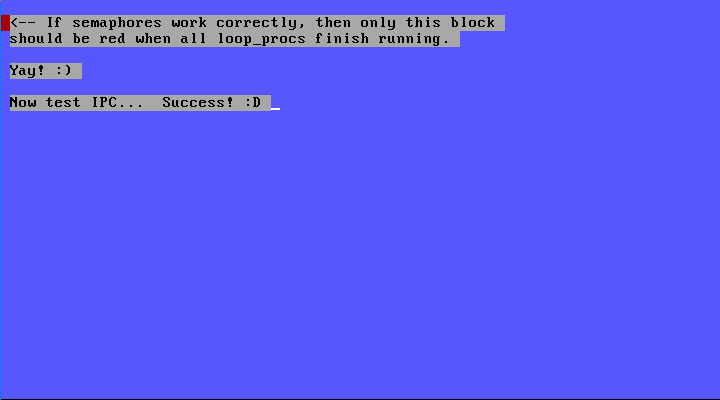
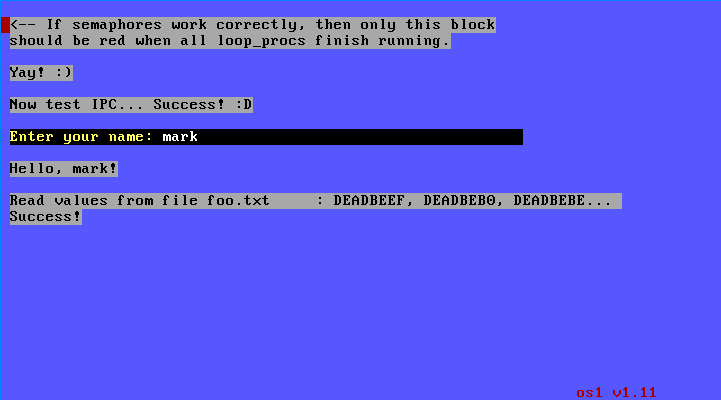
Update index

diff --git a/os1/index.html b/os1/index.html
@@ -37,15 +37,17 @@
     </p>
 
     <br />
-    <h2>Disk image available</h2>
+    <h2>Disk images available</h2>
 
     <p>
-    A disk image is available for those that want to just run the OS in QEMU
-    (<a href="os1.img">Download the disk image</a>). To boot, run this command.
-    You can replace <code>os1.img</code> with the actual path to the .img file:
+    Disk images are available for those that want to just run the OS in QEMU.
+    You will need two images: one to boot (<a href="os1.img">Click to
+        download</a>) and one with the filesystem.  (<a href="hdd.img">Click to
+        download</a>). To boot, run this command (adjusting the paths
+    appropriately):
     <br />
     <code>
-    qemu-system-x86_64 --serial mon:stdio -drive format=raw,file=os1.img,index=2,media=disk
+    qemu-system-i386 --serial mon:stdio -hdc kernel/kernel.img -hdd mkfs/hdd.img
     </code>
     </p>
 
@@ -65,13 +67,15 @@
         <li>Concurrency Control (via Semaphores)</li>
         <li>Primitive display driver (in VGA mode)</li>
         <li>Shared typed data structures</li>
+        <li>Basic support for IDE block devices and keyboard input</li>
+        <li>Read-only filesystem</li>
     </ul>
     </p>
 
     <p>
     TODO:
     <ul>
-        <li>File system</li>
+        <li>Writable File system</li>
         <li>User mode/system calls</li>
             <ul><li>Finish IPC API implementation</li></ul>
         <li>
